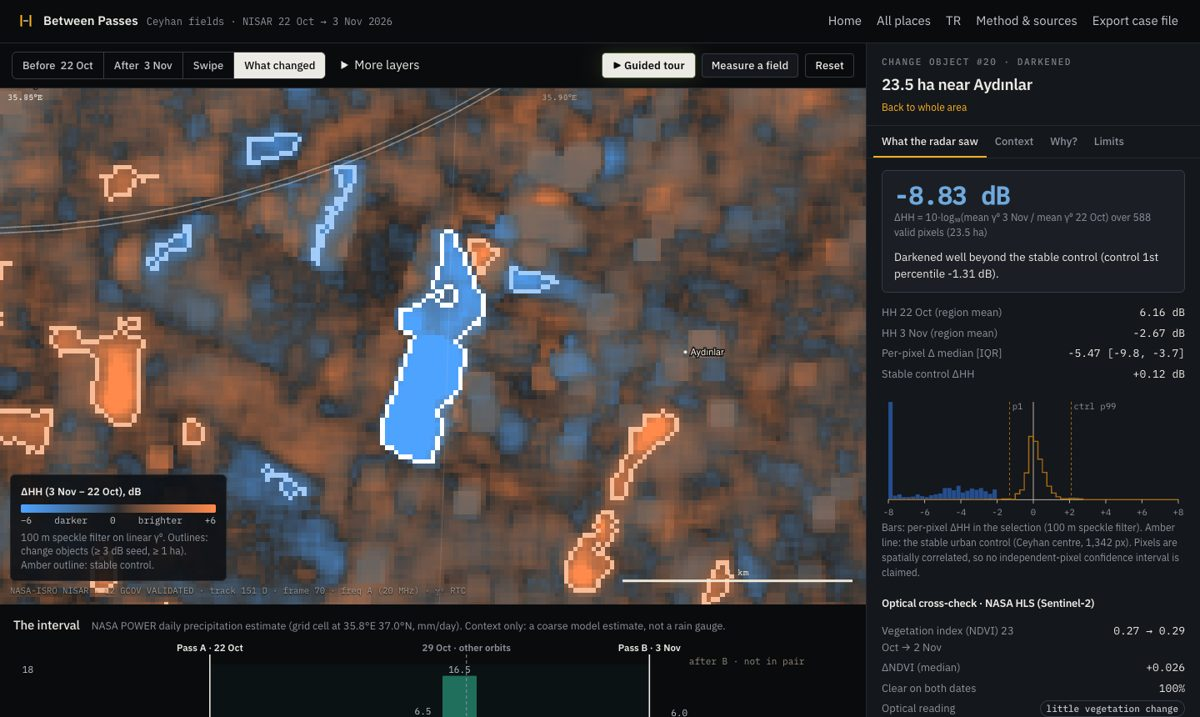
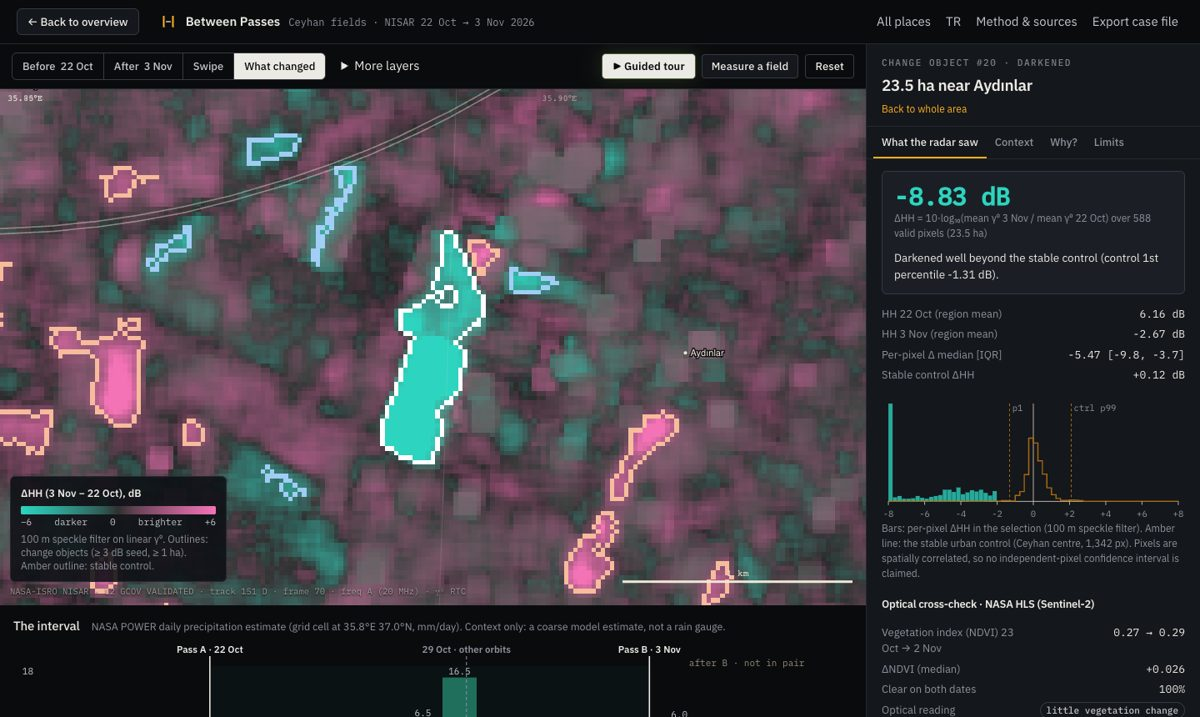
Lab and worldwide test: brighter/darker in pink/teal, so blue/amber only ever mean weather vs real change

diff --git a/app/js/charts.js b/app/js/charts.js
@@ -2,7 +2,7 @@
 const esc = (s) => String(s).replace(/[&<>"]/g, (c) => ({ "&": "&amp;", "<": "&lt;", ">": "&gt;", '"': "&quot;" }[c]));
 
 /** Overlaid normalized histograms: selection (filled) vs control (outline). */
-export function histogramSvg(sel, ctrl, { lo = -8, hi = 8, color = "#d9531e", markers = [] } = {}) {
+export function histogramSvg(sel, ctrl, { lo = -8, hi = 8, color = "#f472b6", markers = [] } = {}) {
   const W = 360, H = 150, P = { l: 8, r: 8, t: 10, b: 24 };
   const iw = W - P.l - P.r, ih = H - P.t - P.b;
   const dens = (h) => h.counts.map((c) => (h.n ? c / h.n : 0));
@@ -80,8 +80,8 @@ export function sensitivitySvg(sens, current) {
   sens.forEach((r, i) => {
     const x0 = P.l + i * gw + gw * 0.16;
     const cur = r.core_db === current;
-    s += `<rect x="${x0}" y="${y(r.area_brightened_ha)}" width="${bw}" height="${P.t + ih - y(r.area_brightened_ha)}" fill="#d9531e" opacity="${cur ? 1 : .55}"><title>≥${r.core_db} dB: ${r.area_brightened_ha} ha brightened in ${r.objects_brightened} objects</title></rect>`;
-    s += `<rect x="${x0 + bw + 2}" y="${y(r.area_darkened_ha)}" width="${bw}" height="${P.t + ih - y(r.area_darkened_ha)}" fill="#2a5db0" opacity="${cur ? 1 : .55}"><title>≥${r.core_db} dB: ${r.area_darkened_ha} ha darkened in ${r.objects_darkened} objects</title></rect>`;
+    s += `<rect x="${x0}" y="${y(r.area_brightened_ha)}" width="${bw}" height="${P.t + ih - y(r.area_brightened_ha)}" fill="#f472b6" opacity="${cur ? 1 : .55}"><title>≥${r.core_db} dB: ${r.area_brightened_ha} ha brightened in ${r.objects_brightened} objects</title></rect>`;
+    s += `<rect x="${x0 + bw + 2}" y="${y(r.area_darkened_ha)}" width="${bw}" height="${P.t + ih - y(r.area_darkened_ha)}" fill="#2dd4bf" opacity="${cur ? 1 : .55}"><title>≥${r.core_db} dB: ${r.area_darkened_ha} ha darkened in ${r.objects_darkened} objects</title></rect>`;
     s += `<text class="axis" x="${x0 + bw}" y="${H - 16}" text-anchor="middle" style="fill:${cur ? "#eceae4" : "#8d929b"}">${r.core_db}</text>`;
     s += `<text class="axis" x="${x0 + bw}" y="${H - 4}" text-anchor="middle">${(r.area_brightened_ha / Math.max(1, r.area_darkened_ha)).toFixed(1)}×</text>`;
   });

diff --git a/app/js/world.js b/app/js/world.js
@@ -1,7 +1,7 @@
 // Global rain test page: renders the pre-registered NISAR x SMAP result and re-verifies it in the browser.
 const $ = (s) => document.querySelector(s);
 const NS = "http://www.w3.org/2000/svg";
-const UP = [217, 83, 30], DOWN = [42, 93, 176];
+const UP = [244, 114, 182], DOWN = [45, 212, 191];
 const fmt = (v, d = 2, sign = false) => (v == null || !Number.isFinite(v)) ? "—" : (sign && v > 0 ? "+" : "") + v.toFixed(d);
 const el = (tag, attrs = {}, parent) => {
   const e = document.createElementNS(NS, tag);
@@ -141,7 +141,7 @@ function thumbCanvas(s) {
   for (let i = 0; i < n * n; i++) {
     const q = thumbs[off + i], o = i * 4;
     if (!q) { img.data[o + 3] = 0; continue; }
-    const d = (q - 128) * G.thumbs.step_db, a = Math.min(1, Math.abs(d) / 6) ** 0.75, c = d >= 0 ? [255, 138, 76] : [90, 169, 255], g = 40;
+    const d = (q - 128) * G.thumbs.step_db, a = Math.min(1, Math.abs(d) / 6) ** 0.75, c = d >= 0 ? [244, 114, 182] : [45, 212, 191], g = 40;
     img.data[o] = g + (c[0] - g) * a; img.data[o + 1] = g + (c[1] - g) * a; img.data[o + 2] = g + (c[2] - g) * a; img.data[o + 3] = 255;
   }
   ctx.putImageData(img, 0, 0);

diff --git a/app/css/dark.css b/app/css/dark.css
@@ -3,7 +3,7 @@
 :root {
   --ink: #0a0b0d; --ink-2: #14171c; --ink-3: #1b1f25; --line: #252930; --line-2: #353a43;
   --bone: #eceae4; --bone-2: #c4c6cb; --muted: #8d929b;
-  --accent: #ffb020; --caution: #ffb020; --up: #ff8a4c; --down: #6fa8dc;
+  --accent: #ffb020; --caution: #ffb020; --up: #f472b6; --down: #2dd4bf;
   --sans: "IBM Plex Sans", system-ui, sans-serif; --mono: "IBM Plex Mono", ui-monospace, monospace; --serif: "IBM Plex Sans", system-ui, sans-serif;
   color-scheme: dark;
 }
@@ -41,3 +41,4 @@ h1, .w-hero h1, .tr-hero h1 { font-weight: 600; letter-spacing: -.035em; }
 .back-btn { display: inline-flex; align-items: center; gap: 6px; margin-right: 14px; padding: 6px 12px; border: 1px solid var(--line-2); border-radius: 6px; background: var(--ink-2); color: var(--bone); font: 500 13.5px var(--sans); text-decoration: none; white-space: nowrap; }
 .back-btn:hover { border-color: var(--accent); }
 @media (max-width: 720px) { .back-btn { padding: 5px 9px; font-size: 12.5px; margin-right: 8px; } }
+.pill.up { border-color: rgba(244,114,182,.5); } .pill.down { border-color: rgba(45,212,191,.5); }

diff --git a/app/js/main.js b/app/js/main.js
@@ -181,7 +181,7 @@ function renderPanel() {
     const so = C.stats.objects;
     v.text = `The change sits in individual fields, not everywhere at once.` + (C.optical ? ` An optical satellite (NASA HLS) shows only ${Math.round(100 * C.optical.brightened.frac_vegetation_loss)}% of the brighter fields lost their plants, so harvest explains only a few.` : "") + ` Tap any outlined field, or draw your own.`;
   }
-  const color = v.cls === "down" ? "#2a5db0" : v.cls === "up" ? "#d9531e" : "#9c927f";
+  const color = v.cls === "down" ? "#2dd4bf" : v.cls === "up" ? "#f472b6" : "#8d929b";
   const areaHa = (s.n * C.grid.posting_m ** 2) / 1e4;
 
   // OBSERVED

diff --git a/app/js/viewer.js b/app/js/viewer.js
@@ -4,7 +4,7 @@
 export const HH_RANGE = [-20, 0];   // fixed display stretch (dB) — identical for both dates
 export const DELTA_MAX = 6;         // ΔdB colour saturation
 
-const UP = [255, 138, 76], DOWN = [78, 163, 255];
+const UP = [244, 114, 182], DOWN = [45, 212, 191];
 
 export function grayImage(db, w, h) {
   const img = new ImageData(w, h);
